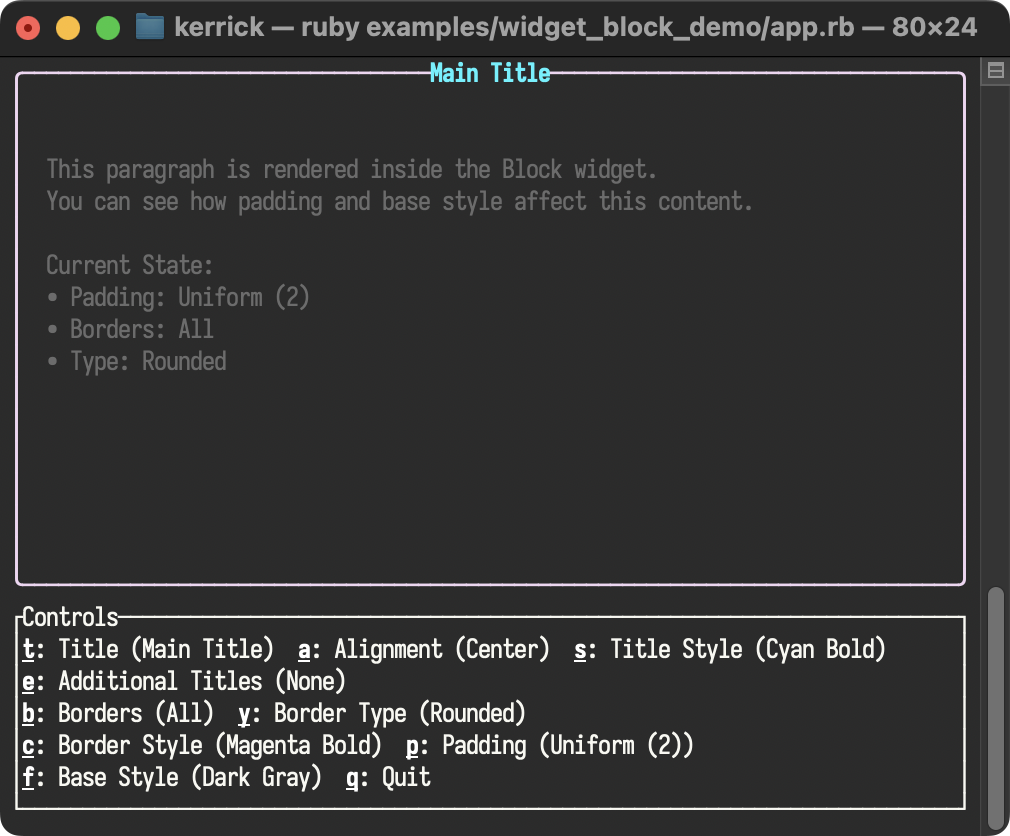
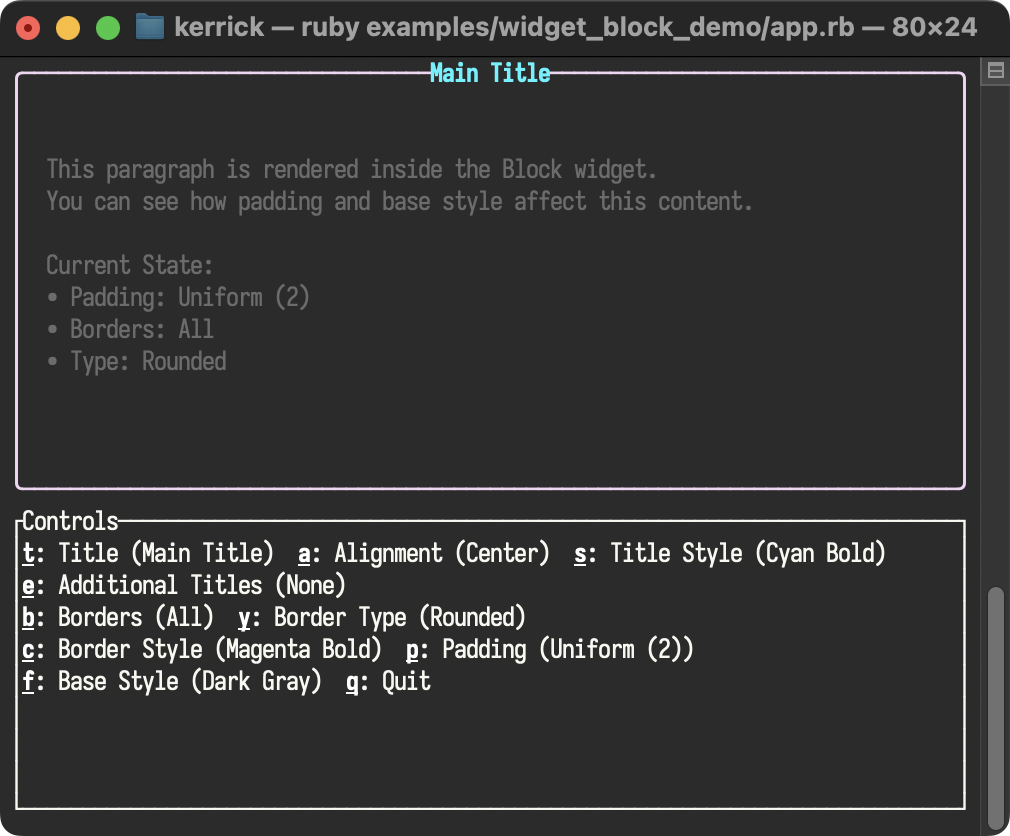
refactor(examples): harmonize widget demos and sync documentation
Update multiple examples to adhere to the "Radical Object-Oriented Purist"
style and current Session API patterns. The previous implementations
used direct class instantiation and inconsistent event loops. These have
been refactored to use the tui factory methods and standardized pattern
matching for events. Additionally, executable permissions were removed
to enforce Bundler usage, and documentation screenshots and test
snapshots were updated to reflect minor rendering shifts.

Generated with [Antigravity](https://antigravity.google)

Changed region(s): [[0.0, 0.5598, 0.9822, 0.9641], [0.9515, 0.622, 0.9822, 0.6531]]

diff --git a/examples/widget_cell_demo/app.rb b/examples/widget_cell_demo/app.rb
@@ -9,15 +9,19 @@ require "ratatui_ruby"
 
 # A custom widget that fills its area with a checkered pattern using Cell objects.
 class CheckeredBackground
+  def initialize(tui)
+    @tui = tui
+  end
+
   def render(area)
-    cell = RatatuiRuby::Cell.new(char: "░", fg: :dark_gray)
+    cell = @tui.cell(char: "░", fg: :dark_gray)
     commands = []
     area.height.times do |y|
       area.width.times do |x|
         # Checkerboard logic
         if (x + y).even?
           # Use a dim cell for the background pattern
-          commands << RatatuiRuby::Draw.cell(area.x + x, area.y + y, cell)
+          commands << @tui.draw_cell(area.x + x, area.y + y, cell)
         end
       end
     end
@@ -26,12 +30,13 @@ class CheckeredBackground
 end
 
 class WidgetCellDemo
-  def main
+  def run
     RatatuiRuby.run do |tui|
+      @tui = tui
       # Define some reusable cells for our table
-      ok_cell = RatatuiRuby::Cell.new(char: "OK", fg: :green)
-      fail_cell = RatatuiRuby::Cell.new(char: "FAIL", fg: :red, modifiers: ["bold"])
-      pending_cell = RatatuiRuby::Cell.new(char: "...", fg: :yellow, modifiers: ["dim"])
+      ok_cell = @tui.cell(char: "OK", fg: :green)
+      fail_cell = @tui.cell(char: "FAIL", fg: :red, modifiers: ["bold"])
+      pending_cell = @tui.cell(char: "...", fg: :yellow, modifiers: ["dim"])
 
       # A mix of Strings and Cells in rows
       rows = [
@@ -39,47 +44,47 @@ class WidgetCellDemo
         ["Cache", ok_cell],
         ["Worker", fail_cell],
         ["Analytics", pending_cell],
-        ["Web Server", RatatuiRuby::Cell.new(char: "RESTARTING", fg: :blue, modifiers: ["rapid_blink"])],
+        ["Web Server", @tui.cell(char: "RESTARTING", fg: :blue, modifiers: ["rapid_blink"])],
       ]
 
-      table = RatatuiRuby::Table.new(
-        header: ["Service", RatatuiRuby::Cell.new(char: "Status", modifiers: ["underlined"])],
+      table = @tui.table(
+        header: ["Service", @tui.cell(char: "Status", modifiers: ["underlined"])],
         rows:,
         widths: [
-          RatatuiRuby::Constraint.percentage(70),
-          RatatuiRuby::Constraint.percentage(30),
+          @tui.constraint_percentage(70),
+          @tui.constraint_percentage(30),
         ],
-        block: RatatuiRuby::Block.new(title: "System Status", borders: :all),
+        block: @tui.block(title: "System Status", borders: :all),
         column_spacing: 1
       )
 
       # Main loop
       loop do
-        tui.draw do |frame|
+        @tui.draw do |frame|
           # Create a layout that holds both widgets
           # We use a vertical layout:
           # Top: Custom CheckeredBackground with specific height
           # Bottom: Table using remaining space
-          top_area, bottom_area = RatatuiRuby::Layout.split(
+          top_area, bottom_area = @tui.layout_split(
             frame.area,
             direction: :vertical,
             constraints: [
-              RatatuiRuby::Constraint.length(10), # Top section
-              RatatuiRuby::Constraint.min(0), # Bottom section
+              @tui.constraint_length(10), # Top section
+              @tui.constraint_min(0), # Bottom section
             ]
           )
 
           # Top Child: An Overlay of Paragraph on top of CheckeredBackground
-          overlay = RatatuiRuby::Overlay.new(
+          overlay = @tui.overlay(
             layers: [
-              CheckeredBackground.new,
-              RatatuiRuby::Center.new(
+              CheckeredBackground.new(@tui),
+              @tui.center(
                 width_percent: 50,
                 height_percent: 50,
-                child: RatatuiRuby::Paragraph.new(
+                child: @tui.paragraph(
                   text: "Custom Widget Demo\n(CheckeredBackground)",
                   alignment: :center,
-                  block: RatatuiRuby::Block.new(borders: :all, title: "Overlay")
+                  block: @tui.block(borders: :all, title: "Overlay")
                 )
               ),
             ]
@@ -90,9 +95,11 @@ class WidgetCellDemo
           frame.render_widget(table, bottom_area)
         end
 
-        event = RatatuiRuby.poll_event
-        if event.is_a?(RatatuiRuby::Event::Key) && (event.code == "q" || (event.code == "c" && event.modifiers.include?("ctrl")))
+        case @tui.poll_event
+        in { type: :key, code: "q" } | { type: :key, code: "c", modifiers: ["ctrl"] }
           break
+        else
+          nil
         end
       end
     end
@@ -100,5 +107,5 @@ class WidgetCellDemo
 end
 
 if __FILE__ == $0
-  WidgetCellDemo.new.main
+  WidgetCellDemo.new.run
 end

diff --git a/examples/verify_quickstart_lifecycle/app.rb b/examples/verify_quickstart_lifecycle/app.rb
@@ -36,8 +36,12 @@ class VerifyQuickstartLifecycle
         end
 
         # 4. Poll for events
-        event = RatatuiRuby.poll_event
-        break if event.key? && event.code == "q"
+        case RatatuiRuby.poll_event
+        in { type: :key, code: "q" } | { type: :key, code: "c", modifiers: ["ctrl"] }
+          break
+        else
+          nil
+        end
       end
     ensure
       # 5. Restore the terminal to its original state

diff --git a/examples/verify_readme_usage/app.rb b/examples/verify_readme_usage/app.rb
@@ -25,8 +25,12 @@ class VerifyReadmeUsage
             frame.area
           )
         end
-        event = tui.poll_event
-        break if event == "q" || event == :ctrl_c
+        case tui.poll_event
+        in { type: :key, code: "q" } | { type: :key, code: "c", modifiers: ["ctrl"] }
+          break
+        else
+          nil
+        end
       end
     end
     # [SYNC:END:main]

diff --git a/test/examples/widget_cell_demo/test_app.rb b/test/examples/widget_cell_demo/test_app.rb
@@ -14,7 +14,7 @@ class TestWidgetCellDemo < Minitest::Test
   def test_render
     with_test_terminal(timeout: 5) do
       inject_key("q")
-      WidgetCellDemo.new.main
+      WidgetCellDemo.new.run
 
       assert_snapshot("render")
       assert_rich_snapshot("render")

diff --git a/examples/widget_block_demo/app.rb b/examples/widget_block_demo/app.rb
@@ -149,7 +149,7 @@ set: {
         direction: :vertical,
         constraints: [
           @tui.constraint_fill(1),
-          @tui.constraint_length(7),
+          @tui.constraint_length(10),
         ]
       )
 

diff --git a/examples/widget_scroll_text/app.rb b/examples/widget_scroll_text/app.rb
@@ -1,4 +1,3 @@
-#!/usr/bin/env ruby
 # frozen_string_literal: true
 
 # SPDX-FileCopyrightText: 2025 Kerrick Long <me@kerricklong.com>

diff --git a/doc/contributors/examples_audit.md b/doc/contributors/examples_audit.md
@@ -20,18 +20,13 @@ All P0 critical items have been completed:
 
 ## [P1: High (Polish)](./examples_audit/p1_high.md)
 
-1. **[Fix API Violations in 6 Examples](./examples_audit/p1_high.md#1-fix-api-violations-in-6-examples)** (API consistency/polish)
-   - Event handling (5 examples)
-   - Session API (2 examples)
-   - Other fixes (constraint calls, method names, permissions)
-
-2. **[Improve Default States](./examples_audit/p1_high.md#2-improve-default-states)** (Visual polish)
+1. **[Improve Default States](./examples_audit/p1_high.md#1-improve-default-states)** (Visual polish)
    - widget_barchart_demo (enable grouped visualization)
    - widget_sparkline_demo (interesting data patterns)
    - widget_list_styles (visible selection state)
    - widget_block_padding, widget_block_titles (visually striking layouts)
 
-3. **[Ensure All Widgets Have Examples](./examples_audit/p1_high.md#3-ensure-all-widgets-have-examples)** (Completeness)
+2. **[Ensure All Widgets Have Examples](./examples_audit/p1_high.md#2-ensure-all-widgets-have-examples)** (Completeness)
    - Check widget manifest against example inventory
    - Create examples for any missing widgets
 
@@ -39,7 +34,7 @@ All P0 critical items have been completed:
 
 ## [P2: Moderate (Quality)](./examples_audit/p2_moderate.md)
 
-1. **[Add RDoc Cross-Links](./examples_audit/p2_moderate.md#3-add-rdoc-cross-links-examples--aliases)** (Documentation discoverability)
+1. **[Add RDoc Cross-Links](./examples_audit/p2_moderate.md#1-add-rdoc-cross-links-examples--aliases)** (Documentation discoverability)
    - Link library classes/methods to examples
    - Link DWIM/TIMTOWTDI aliases
    - Create consistent pattern across public APIs

diff --git a/doc/contributors/examples_audit/p1_high.md b/doc/contributors/examples_audit/p1_high.md
@@ -9,58 +9,7 @@ Important for v1.0.0 quality and ecosystem goals. Not blocking release, but reco
 
 ---
 
-## 1. Fix API Violations in 6 Examples
-
-**Status:** Important for API consistency — Examples currently violate established patterns
-
-### Event Handling (5 examples)
-
-widget_block_demo (merged), widget_cell_demo, widget_scroll_text
-
-**Current (WRONG):**
-```ruby
-break if event == "q" || event == :ctrl_c
-```
-
-**Should be:**
-```ruby
-case @tui.poll_event
-in { type: :key, code: "q" } | { type: :key, code: "c", modifiers: ["ctrl"] }
-  break
-else
-  nil
-end
-```
-
-### Session API (2 examples)
-
-widget_block_demo (merged), widget_cell_demo
-
-**Current (WRONG):**
-```ruby
-RatatuiRuby::Block.new(...)
-RatatuiRuby::Layout.split(...)
-RatatuiRuby::Constraint.length(...)
-```
-
-**Should use:**
-```ruby
-@tui.block(...)
-@tui.layout_split(...)
-@tui.constraint_length(...)
-```
-
-### Other Fixes
-
-**widget_block_demo:** Use `tui.constraint_length(10)`
-
-**widget_cell_demo:** Rename `main` method to `run`
-
-**widget_scroll_text, widget_table_demo:** Remove executable bit (`chmod -x`)
-
----
-
-## 2. Improve Default States
+## 1. Improve Default States
 
 **Status:** Important for visual polish — Examples should look impressive on first launch
 
@@ -88,7 +37,7 @@ Several examples use plain or minimal defaults that don't showcase the library w
 
 ---
 
-## 3. Ensure All Widgets Have Examples
+## 2. Ensure All Widgets Have Examples
 
 **Status:** Important for completeness — Every widget type should be demonstrable
 

diff --git a/doc/quickstart.md b/doc/quickstart.md
@@ -63,8 +63,12 @@ begin
     end
 
     # 4. Poll for events
-    event = RatatuiRuby.poll_event
-    break if event.key? && event.code == "q"
+    case RatatuiRuby.poll_event
+    in { type: :key, code: "q" } | { type: :key, code: "c", modifiers: ["ctrl"] }
+      break
+    else
+      nil
+    end
   end
 ensure
   # 5. Restore the terminal to its original state

diff --git a/examples/verify_quickstart_lifecycle/README.md b/examples/verify_quickstart_lifecycle/README.md
@@ -39,8 +39,12 @@ begin
     end
 
     # 4. Poll for events
-    event = RatatuiRuby.poll_event
-    break if event.key? && event.code == "q"
+    case RatatuiRuby.poll_event
+    in { type: :key, code: "q" } | { type: :key, code: "c", modifiers: ["ctrl"] }
+      break
+    else
+      nil
+    end
   end
 ensure
   # 5. Restore the terminal to its original state

diff --git a/README.md b/README.md
@@ -81,8 +81,12 @@ RatatuiRuby.run do |tui|
         frame.area
       )
     end
-    event = tui.poll_event
-    break if event == "q" || event == :ctrl_c
+    case tui.poll_event
+    in { type: :key, code: "q" } | { type: :key, code: "c", modifiers: ["ctrl"] }
+      break
+    else
+      nil
+    end
   end
 end
 ```
